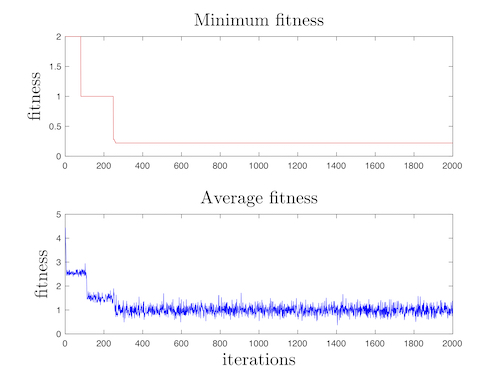
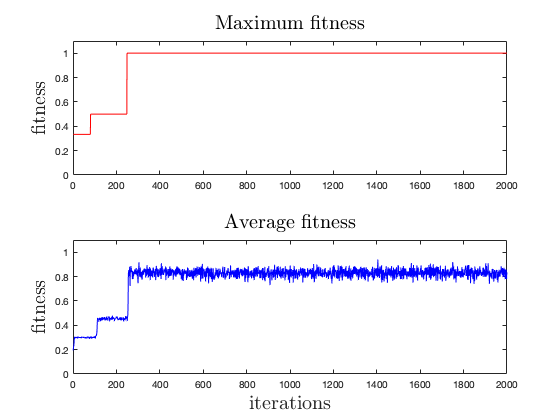
Maximize fitness
Convert optimization into a maximization problem.

diff --git a/src/main.m b/src/main.m
@@ -58,7 +58,7 @@ end
 % Compute the fitness of the first population
 globalFitness = fitness(fitnessHamming, fitnessCost, nGates);
 avgFitness = mean(globalFitness(3,:));
-minFitness = min(globalFitness(3,:));
+maxFitness = max(globalFitness(3,:));
 finalSelection = selection(globalFitness, nIndividuals);
 nSelected = size(finalSelection(1,:), 2);
 
@@ -100,7 +100,7 @@ for iIteration = 2:nIterations
     % Compute the fitness of the population
     globalFitness = fitness(fitnessHamming, fitnessCost, nGates);
     avgFitness(iIteration) = mean(globalFitness(3,:));
-    minFitness(iIteration) = min(globalFitness(3,:));
+    maxFitness(iIteration) = max(globalFitness(3,:));
     finalSelection = selection(globalFitness, nIndividuals);
     nSelected = size(finalSelection(1,:), 2);
     bestIndividuals = cell(1, nSelected);    
@@ -160,11 +160,13 @@ end
 
 % Plot the minumum and average fitness across iterations
 subplot(2,1,1)
-plot(minFitness,'r');
-title('Minimum fitness','interpreter','latex','fontsize',20);
+plot(maxFitness,'r');
+ylim([0 1.1])
+title('Maximum fitness','interpreter','latex','fontsize',20);
 ylabel('fitness','interpreter','latex','fontsize',20);
 subplot(2,1,2)
 plot(avgFitness,'b');
+ylim([0 1.1])
 title('Average fitness','interpreter','latex','fontsize',20);
 xlabel('iterations','interpreter','latex','fontsize',20);
 ylabel('fitness','interpreter','latex','fontsize',20)

diff --git a/src/selection.m b/src/selection.m
@@ -28,10 +28,10 @@ end
 % Sort the fitness in ascending order
 selectedIndividuals = NaN(nIndividuals, nSelected);
 for iSelected = 1:nSelected
-    [minFitnessIndividuals, idxFitnessIndividuals] = min(fitnessIndividuals);
-    selectedIndividuals(1,iSelected) = minFitnessIndividuals;
+    [maxFitnessIndividuals, idxFitnessIndividuals] = max(fitnessIndividuals);
+    selectedIndividuals(1,iSelected) = maxFitnessIndividuals;
     selectedIndividuals(2,iSelected) = idxFitnessIndividuals;
-    fitnessIndividuals(selectedIndividuals(2,iSelected)) = Inf;
+    fitnessIndividuals(selectedIndividuals(2,iSelected)) = -Inf;
 end
     
 

diff --git a/src/fitness.m b/src/fitness.m
@@ -25,11 +25,7 @@ nIndividuals = length(hammingFitness);
 % Set the fitness to be equal the hammingDistance if this is different than
 % 0. Otherwise, let it be equal to the cost divided by nGates^2.
 for iIndividual = 1:nIndividuals
-    if hammingFitness(iIndividual) == 0 
-        globalFitness(3,iIndividual) = globalFitness(2,iIndividual)/(nGates^2);
-    elseif hammingFitness(iIndividual) > 0
-        globalFitness(3,iIndividual) = hammingFitness(iIndividual);
-    end
+    globalFitness(3,iIndividual) = 1 / (1 + hammingFitness(iIndividual));
 end
 
 end
